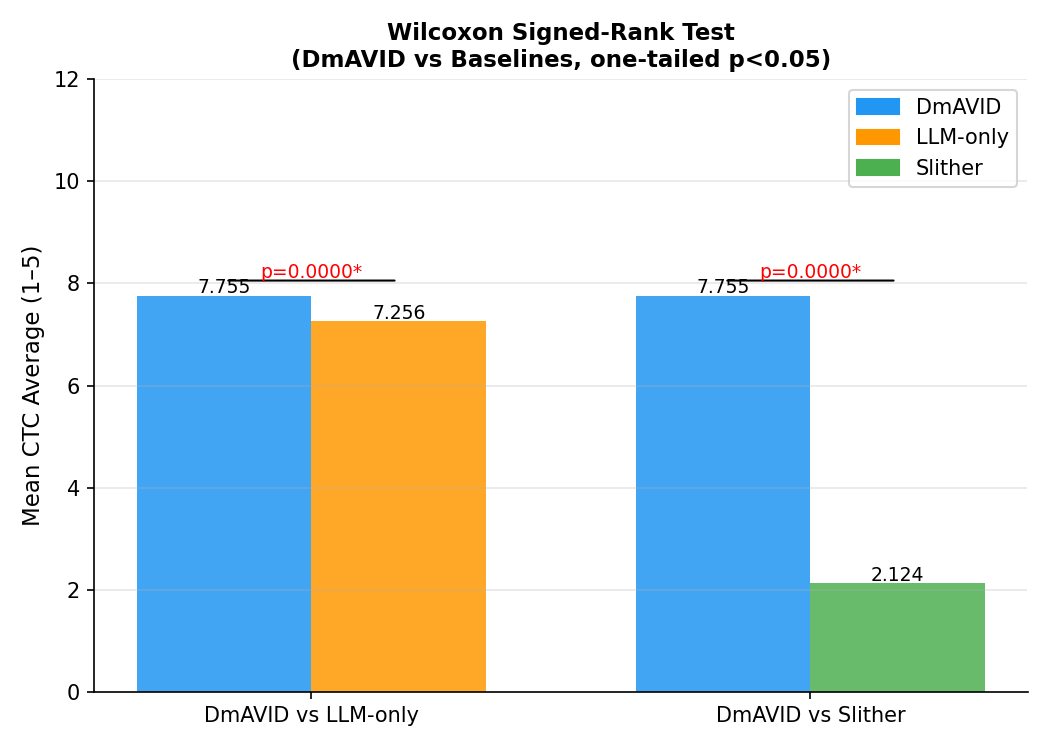
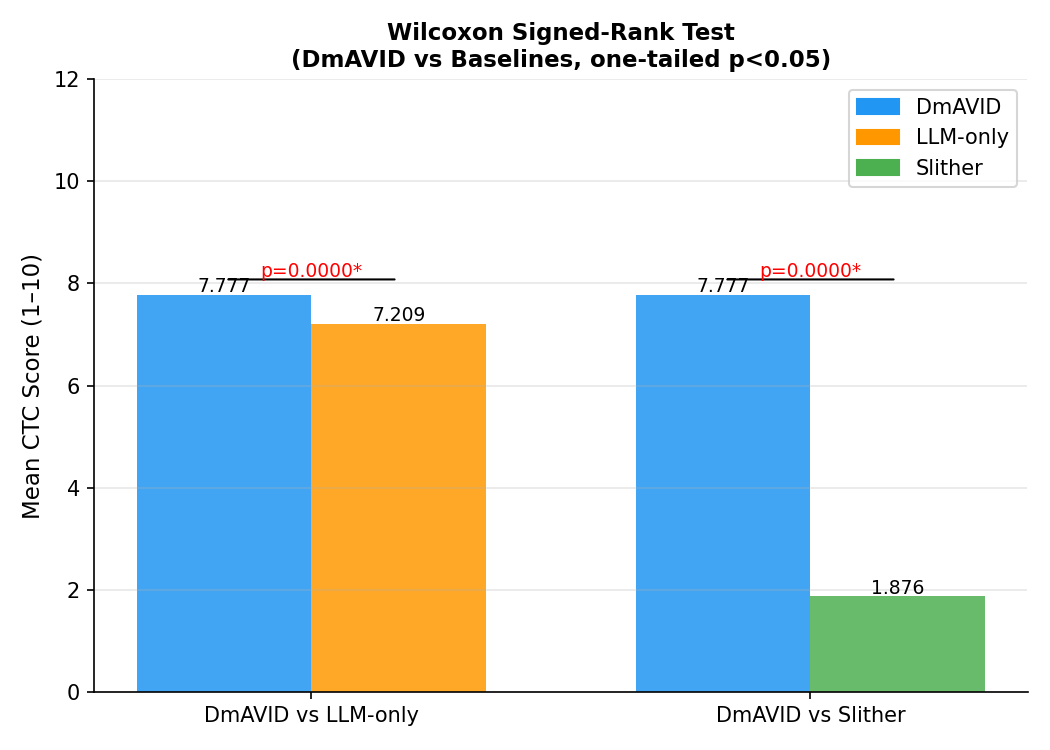
fix: CTC weights to C×0.6+T×0.3+CL×0.1 (Smart-LLaMA-DPO), fix Y-axis labels to 1-10

diff --git a/scripts/71_ctc_charts.py b/scripts/71_ctc_charts.py
@@ -57,7 +57,7 @@ def load_per_sample():
         cl  = rec.get("clarity")
         if all(v is not None for v in [c, t, cl]):
             by_contract[cid][m] = {"correctness": c, "thoroughness": t, "clarity": cl,
-                                    "ctc_avg": round((c + t + cl) / 3, 3)}
+                                    "ctc_avg": round(c * 0.6 + t * 0.3 + cl * 0.1, 3)}
     return by_contract
 
 
@@ -83,7 +83,7 @@ def chart_grouped_bar(summary):
                     f"{v:.2f}", ha="center", va="bottom", fontsize=8)
 
     ax.set_xlabel("CTC Dimension", fontsize=12)
-    ax.set_ylabel("Score (1–5)", fontsize=12)
+    ax.set_ylabel("Score (1–10)", fontsize=12)
     ax.set_title("CTC Explainability Evaluation\n(Li et al., Smart-LLaMA-DPO, ISSTA 2025)",
                  fontsize=12, fontweight="bold")
     ax.set_xticks(x)
@@ -205,7 +205,7 @@ def chart_wilcoxon(by_contract):
     ax.legend(handles=[mpatches.Patch(color="#2196F3", label="DmAVID")] + patches, fontsize=10)
     ax.set_xticks(x)
     ax.set_xticklabels([r["comparison"] for r in results], fontsize=10)
-    ax.set_ylabel("Mean CTC Average (1–5)", fontsize=11)
+    ax.set_ylabel("Mean CTC Score (1–10)", fontsize=11)
     ax.set_ylim(0, 12)
     ax.set_title("Wilcoxon Signed-Rank Test\n(DmAVID vs Baselines, one-tailed p<0.05)",
                  fontsize=11, fontweight="bold")

diff --git a/scripts/70_ctc_explainability_eval.py b/scripts/70_ctc_explainability_eval.py
@@ -165,7 +165,7 @@ def summarise(done, vuln, tasks, judge, model):
     }
     for m, dims in ms.items():
         c, t, cl = avg(dims["correctness"]), avg(dims["thoroughness"]), avg(dims["clarity"])
-        ctc = round((c + t + cl) / 3, 3) if all(v is not None for v in [c, t, cl]) else None
+        ctc = round(c * 0.6 + t * 0.3 + cl * 0.1, 3) if all(v is not None for v in [c, t, cl]) else None
         out["per_method"][m] = {
             "n": len(dims["correctness"]),
             "correctness": c, "thoroughness": t, "clarity": cl, "ctc_avg": ctc
@@ -174,7 +174,7 @@ def summarise(done, vuln, tasks, judge, model):
         out["per_category"][cat] = {}
         for m, dims in methods.items():
             c, t, cl = avg(dims["correctness"]), avg(dims["thoroughness"]), avg(dims["clarity"])
-            ctc = round((c + t + cl) / 3, 3) if all(v is not None for v in [c, t, cl]) else None
+            ctc = round(c * 0.6 + t * 0.3 + cl * 0.1, 3) if all(v is not None for v in [c, t, cl]) else None
             out["per_category"][cat][m] = {
                 "n": len(dims["correctness"]),
                 "correctness": c, "thoroughness": t, "clarity": cl, "ctc_avg": ctc
